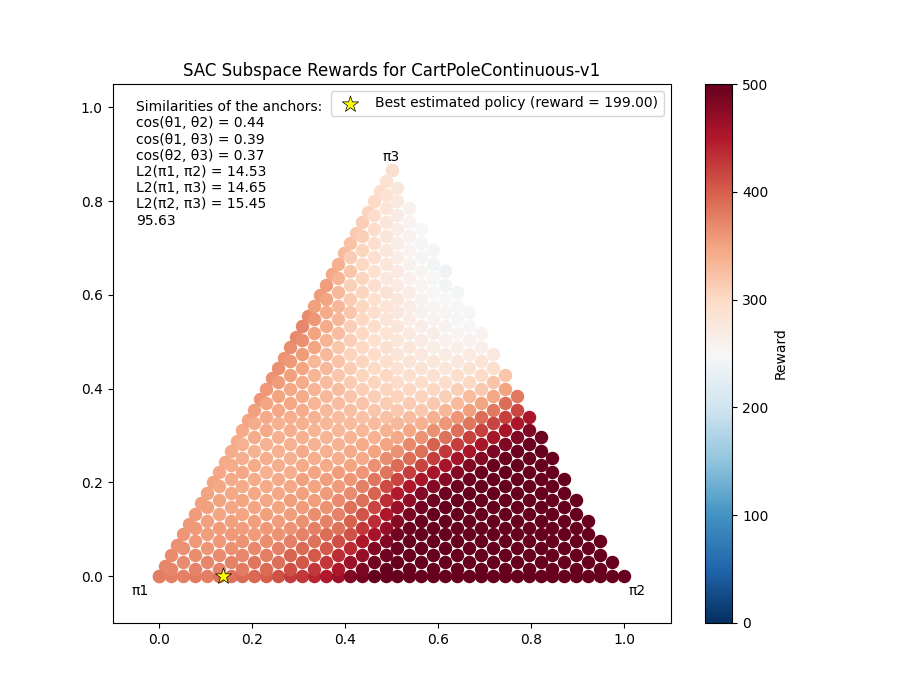
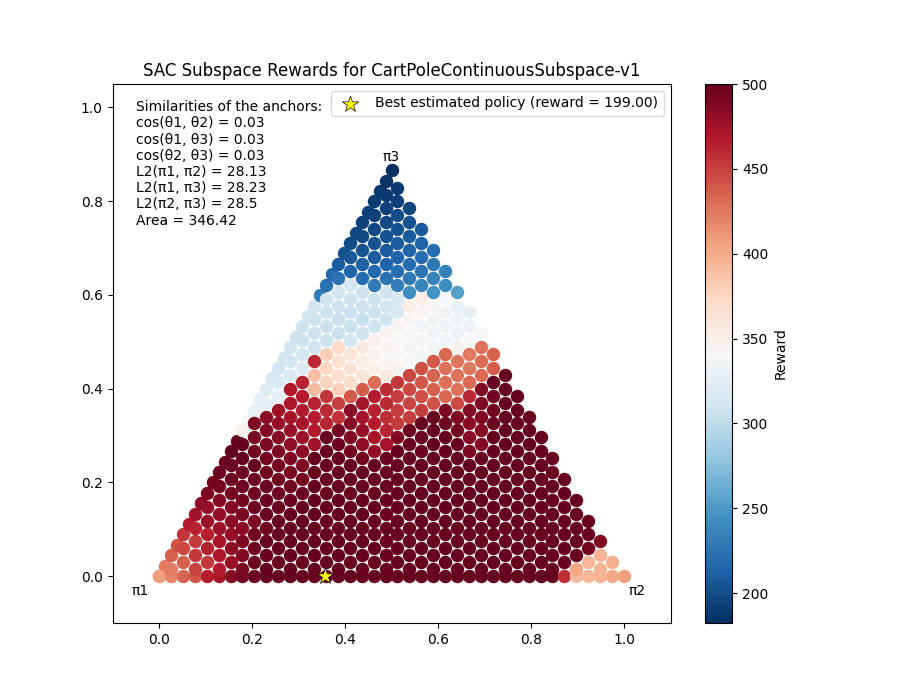
Intuitive Subspace Agent, Acrobot Reward Shaping, and Improved Intermediary Plots

diff --git a/src/bbrl_subspaces/agents/agent.py b/src/bbrl_subspaces/agents/agent.py
@@ -23,7 +23,7 @@ class AlphaAgent(SubspaceAgent):
     repeat_alpha: number of consecutive steps a sampled alphas vector should be used
     """
 
-    def __init__(self, n_initial_anchors, dist_type="flat", refresh_rate=1., resampling_policy=True, repeat_alpha=1000):
+    def __init__(self, n_initial_anchors, dist_type="flat", refresh_rate=1., resampling_policy=True, repeat_alpha=1000, **kwargs):
         super().__init__()
         self.n_anchors = n_initial_anchors
         self.dist_type = dist_type
@@ -57,7 +57,7 @@ class AlphaAgent(SubspaceAgent):
                 self.set(("tracking_reward", t),tracking_reward)
 
 
-    def forward(self, t=None, force_random=False, policy_update=False, alphas=None, mute_alpha=False, **args):
+    def forward(self, t=None, force_random=False, policy_update=False, alphas=None, mute_alpha=False, **kwargs):
         if mute_alpha:
             pass
         self.track_reward(t)
@@ -170,7 +170,7 @@ class SubspaceAction(SubspaceAgent):
     only_head: the model only has the last layer of the usual networks
     """
 
-    def __init__(self, n_initial_anchors, input_dimension, output_dimension, hidden_size, start_steps=0, input_name="env/env_obs", only_head=False):
+    def __init__(self, n_initial_anchors, input_dimension, output_dimension, hidden_size, start_steps=0, input_name="env/env_obs", only_head=False, **kwargs):
         super().__init__()
         self.start_steps = start_steps
         self.counter = 0
@@ -347,7 +347,7 @@ class AlphaCritic(SubspaceAgent):
     input_name: name of the variable with the observations
     output_name: name of the variable with the Q values
     """
-    def __init__(self, n_anchors, obs_dimension, action_dimension, hidden_size, input_name="env/env_obs", output_name="q_values"):
+    def __init__(self, n_anchors, obs_dimension, action_dimension, hidden_size, input_name="env/env_obs", output_name="q_values", **kwargs):
         super().__init__()
         self.iname = input_name
         self.n_anchors = n_anchors
@@ -395,3 +395,136 @@ class AlphaCritic(SubspaceAgent):
         if logger is not None:
             logger = logger.get_logger(type(self).__name__ + str("/"))
             logger.message("Setting input size to " + str(self.input_size) + " and reinitializing network")
+
+
+
+
+from bbrl_algos.models.stochastic_actors import SquashedGaussianActor
+from torch.nn import CosineSimilarity
+
+class IntuitiveSubspaceAction(SubspaceAgent):
+    """ An intuitive agent used to act based on multiple policies, given their respective weights.
+
+    Parameters
+    ----------
+    n_initial_anchors: number of policies that define the initial subspace
+    input_dimension
+    output_dimension
+    hidden_size: size of the networks' hidden layers
+    start_steps: number of steps before the beginning of the actual training
+    input_name: name of the variable with the observations
+    only_head: the model only has the last layer of the usual networks
+    """
+
+    def __init__(self, n_initial_anchors, input_dimension, output_dimension, hidden_size, start_steps=0, input_name="env/env_obs", **kwargs):
+        super().__init__()
+        self.start_steps = start_steps
+        self.counter = 0
+        self.iname = input_name
+        self.n_anchors = n_initial_anchors
+        self.input_size = input_dimension
+        self.output_dimension = output_dimension
+        self.hs = hidden_size
+
+        self.anchors = [SquashedGaussianActor(self.input_size, self.hs, self.output_dimension) for _ in range(self.n_anchors)]
+
+
+
+    def forward(self, t=None, policy_update=False, predict_proba=False, **kwargs):
+        # Outside of training, the output is the linear combination of the anchors' outputs, given their respective weights alphas
+        if not self.training:
+            x = self.get((self.iname, t))
+            alphas = self.get(("alphas", t))
+            mu, _ = self.model(x, alphas).chunk(2, dim=-1)
+            action = torch.tanh(mu)
+            self.set(("action", t), action)
+
+        else:
+            x = self.get((self.iname, t))
+            alphas = self.get(("alphas", t))
+            # Before threshold, action is random
+            if self.counter <= self.start_steps:
+                action = torch.rand(x.shape[0], self.output_dimension)*2 - 1
+            else:
+                # In SAC, predict_proba is used conversely with stochastic
+                xs = [anchor(x, stochastic=predict_proba) for anchor in self.anchors]
+                xs = torch.stack(xs, dim=-1)
+                alpha = torch.stack([alpha] * self.out_channels, dim=-2)
+                action = (xs * alpha).sum(-1)
+            self.set(("action", t), action)
+            self.counter += 1
+
+
+    def add_anchor(self, alpha=None, logger=None, **kwargs):
+        i = 0
+        alphas = [alpha] * (self.hs + 2)
+        if logger is not None:
+            logger = logger.get_logger(type(self).__name__+str("/"))
+            if alpha is None:
+                logger.message("Adding one anchor with alpha = None")
+            else:
+                logger.message("Adding one anchor with alpha = " + str(list(map(lambda x: round(x,2), alpha.tolist()))))
+
+        # Adding an anchor to each subspace layer, with the proper weight alpha
+        self.anchors.append(SquashedGaussianActor(self.input_size, self.hs, self.output_dimension))
+        self.n_anchors += 1
+
+
+    def remove_anchor(self, logger = None, **kwargs):
+        if logger is not None:
+            logger = logger.get_logger(type(self).__name__ + str("/"))
+            logger.message("Removing last anchor")
+        
+        del self.anchors[-1]
+        self.n_anchors -= 1
+
+
+    def cosine_similarities(self, **kwargs):
+        n = 0
+        cosine_similarities = {}
+        cosine_similarity_function = CosineSimilarity()
+        anchors = self.get_subspace_anchors()
+        # The cosine similarities are the respective mean of each network layer's cosine similarities
+        for i in range(self.n_anchors):
+            for j in range(i+1, self.n_anchors):
+                policy_i = torch.nn.utils.parameters_to_vector(anchors[i].parameters())
+                policy_j = torch.nn.utils.parameters_to_vector(anchors[j].parameters())
+                cosine_similarities[f"π{i+1}, π{j+1}"] = cosine_similarity_function(policy_i, policy_j)
+        return {key: similarity/n for key, similarity in cosine_similarities.items()}
+    
+
+    def get_subspace_anchors(self, **kwargs):
+        return self.anchors
+    
+
+    def euclidean_distances(self, **kwargs):
+        euclidean_distances = {}
+        anchors = self.get_subspace_anchors()
+        for i in range(self.n_anchors):
+            for j in range(i+1, self.n_anchors):
+                policy_i = torch.nn.utils.parameters_to_vector(anchors[i].parameters())
+                policy_j = torch.nn.utils.parameters_to_vector(anchors[j].parameters())
+                euclidean_distances[f"π{i+1}, π{j+1}"] = torch.norm(policy_i - policy_j, p=2)
+        return euclidean_distances
+    
+
+    def subspace_area(self, **kwargs):
+        anchors = self.get_subspace_anchors()
+        if len(anchors) != 3:
+            return None
+        with torch.no_grad():
+            anchors_euclidean_distances = self.euclidean_distances()
+        x, y, z = anchors_euclidean_distances["π1, π3"].item(), anchors_euclidean_distances["π2, π3"].item(), anchors_euclidean_distances["π1, π2"].item()
+        d = (x + y + z) / 2
+        subspace_area = np.sqrt(d*(d-x)*(d-y)*(d-z))
+        return subspace_area
+    
+
+    def get_similarities(self, **kwargs):
+        with torch.no_grad():
+            similarities = "Similarities of the anchors:"
+            for key, similarity in self.cosine_similarities().items():
+                similarities += f"\ncos({key}) = {round(similarity.item(), 2)}"
+            for key, distance in self.euclidean_distances().items():
+                similarities += f"\nL2({key}) = {round(distance.item(), 2)}"
+            return similarities

diff --git a/src/bbrl_subspaces/envs/continuous_acrobot.py b/src/bbrl_subspaces/envs/continuous_acrobot.py
@@ -13,7 +13,7 @@ from numpy import cos, pi, sin
 import gymnasium as gym
 from gymnasium import Env, spaces
 from gymnasium.envs.classic_control import utils
-from gymnasium.envs.classic_control.acrobot import AcrobotEnv, bound, rk4, wrap
+from gymnasium.envs.classic_control.acrobot import AcrobotEnv, bound, wrap
 from gymnasium.error import DependencyNotInstalled
 
 
@@ -58,7 +58,7 @@ class ContinuousAcrobotSubspaceEnv(AcrobotEnv):
     def step(self, a):
         s = self.state
         assert s is not None, "Call reset before using AcrobotEnv object."
-        torque = self.AVAIL_TORQUE[a]
+        torque = a[0]
 
         # Add noise to the force action
         if self.torque_noise_max > 0:
@@ -80,11 +80,13 @@ class ContinuousAcrobotSubspaceEnv(AcrobotEnv):
         terminated = self._terminal()
         reward = -1.0 if not terminated else 0.0
 
+        # Reward shaping
+        reward += -cos(self.state[0]) - cos(self.state[1] + self.state[0])
+
         if self.render_mode == "human":
             self.render()
         # truncation=False as the time limit is handled by the `TimeLimit` wrapper added during `make`
         return self._get_ob(), reward, terminated, False, {}
-
 
 
     def _dsdt(self, s_augmented):
@@ -123,3 +125,29 @@ class ContinuousAcrobotSubspaceEnv(AcrobotEnv):
             ) / (m2 * lc2**2 + I2 - d2**2 / d1)
         ddtheta1 = -(d2 * ddtheta2 + phi1) / d1
         return dtheta1, dtheta2, ddtheta1, ddtheta2, 0.0
+    
+
+
+def rk4(derivs, y0, t):
+    try:
+        Ny = len(y0)
+    except TypeError:
+        yout = np.zeros((len(t),), np.float64)
+    else:
+        yout = np.zeros((len(t), Ny), np.float64)
+
+    yout[0] = y0
+
+    for i in np.arange(len(t) - 1):
+        this = t[i]
+        dt = t[i + 1] - this
+        dt2 = dt / 2.0
+        y0 = yout[i]
+
+        k1 = np.asarray(derivs(y0))
+        k2 = np.asarray(derivs(y0 + dt2 * k1))
+        k3 = np.asarray(derivs(y0 + dt2 * k2))
+        k4 = np.asarray(derivs(y0 + dt * k3))
+        yout[i + 1] = y0 + dt / 6.0 * (k1 + 2 * k2 + 2 * k3 + k4)
+    # We only care about the final timestep and we cleave off action value which will be zero
+    return yout[-1][:4]

diff --git a/src/bbrl_subspaces/visualization/subspace_visualizer.py b/src/bbrl_subspaces/visualization/subspace_visualizer.py
@@ -93,13 +93,24 @@ class SubspaceVisualizer:
 
         logger.message(f"Evaluating the rewards for different policies ({self.num_points} points sampled per edge)")
         _plotting_start_time = time.time()
+
+        max_reward = -float("inf")
+        best_alpha = None
         for i in range(len(x_points)):
             if is_inside_triangle([x_points[i], y_points[i]], [0, 0], [1, 0], [0.5, np.sqrt(3) / 2]):
                 if x_points[i] != 0.5 and y_points[i] != np.sqrt(3)/2:
                     alpha = get_alphas_from_point(x_points[i], y_points[i])
                     reward = evaluate_agent(eval_agent, alpha)
+                    if reward > max_reward:
+                        max_reward = reward
+                        best_alpha = alpha
                     alpha_reward_list.append((alpha, reward))
                     cpt += 1
+
+        # Best Policy Estimation for intermediary plots
+        if n_steps is not None:
+            info["best_alpha"] = best_alpha
+            info["best_alpha_reward"] = max_reward
 
         logger.message("Time elapsed: " + str(round(time.time() - _plotting_start_time, 0)) + " sec")
 
